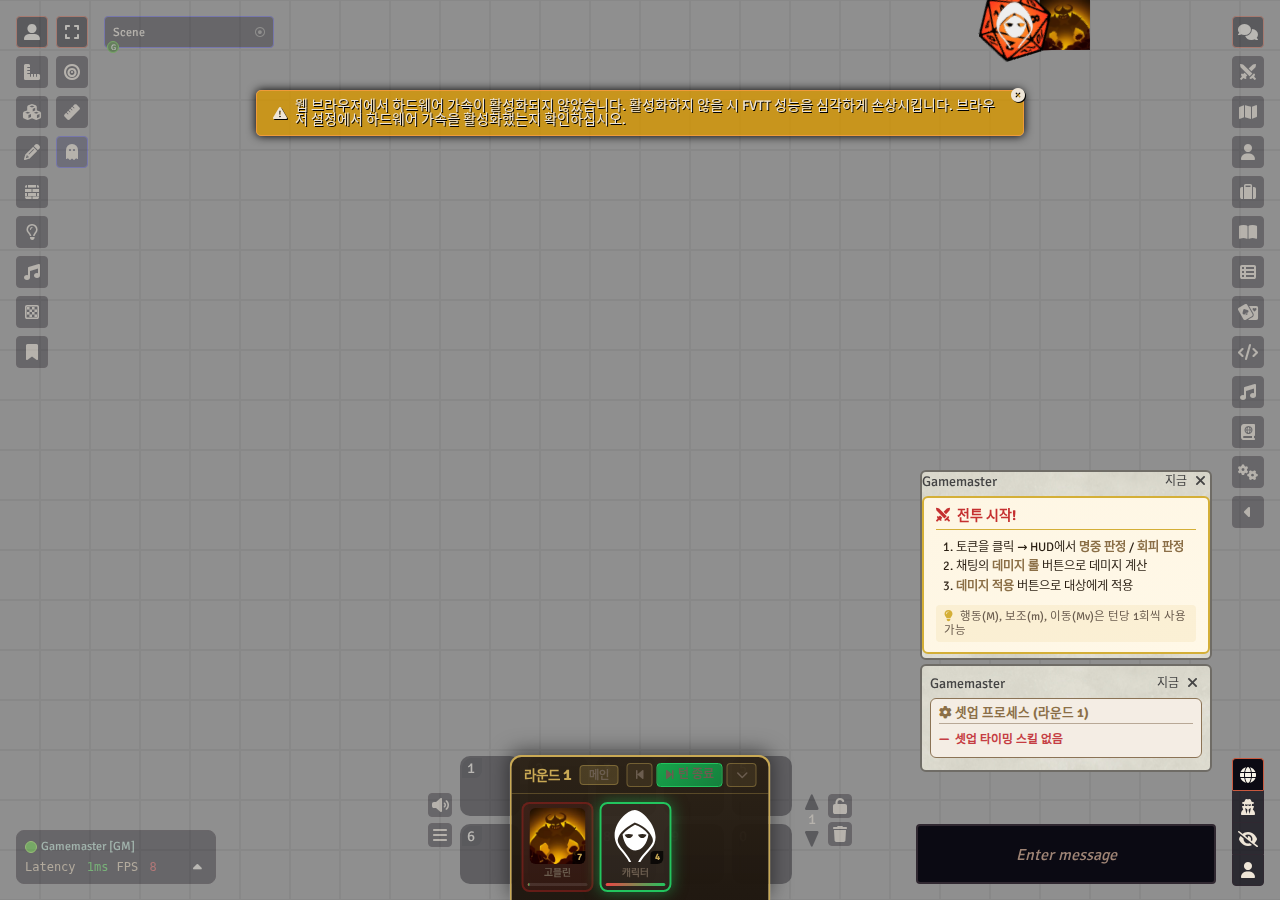
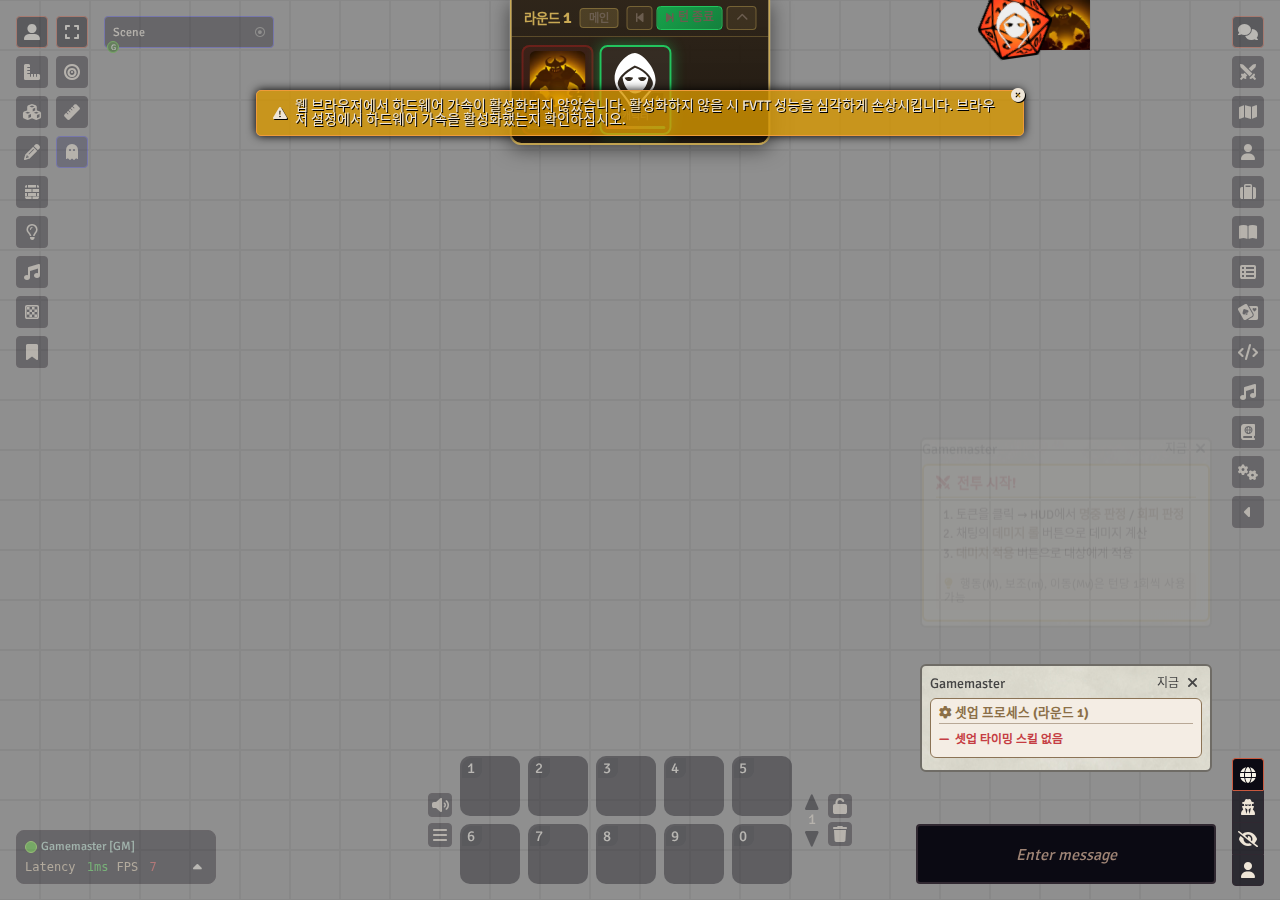
fix: move combat tracker dock to top of screen to avoid hotbar overlap

diff --git a/styles/arianrhod2e.css b/styles/arianrhod2e.css
@@ -5804,16 +5804,16 @@
 
 #ar-combat-dock {
   position: fixed;
-  bottom: 0;
+  top: 0;
   left: 50%;
   transform: translateX(-50%);
   z-index: 100;
   max-width: 90vw;
   background: linear-gradient(180deg, rgba(42, 32, 20, 0.95), rgba(30, 22, 14, 0.98));
   border: 2px solid var(--ar-border-gold, #c9a954);
-  border-bottom: none;
-  border-radius: 12px 12px 0 0;
-  box-shadow: 0 -4px 20px rgba(0, 0, 0, 0.5);
+  border-top: none;
+  border-radius: 0 0 12px 12px;
+  box-shadow: 0 4px 20px rgba(0, 0, 0, 0.5);
   font-family: inherit;
   color: var(--ar-text-light, #f5f0e8);
   display: none;
